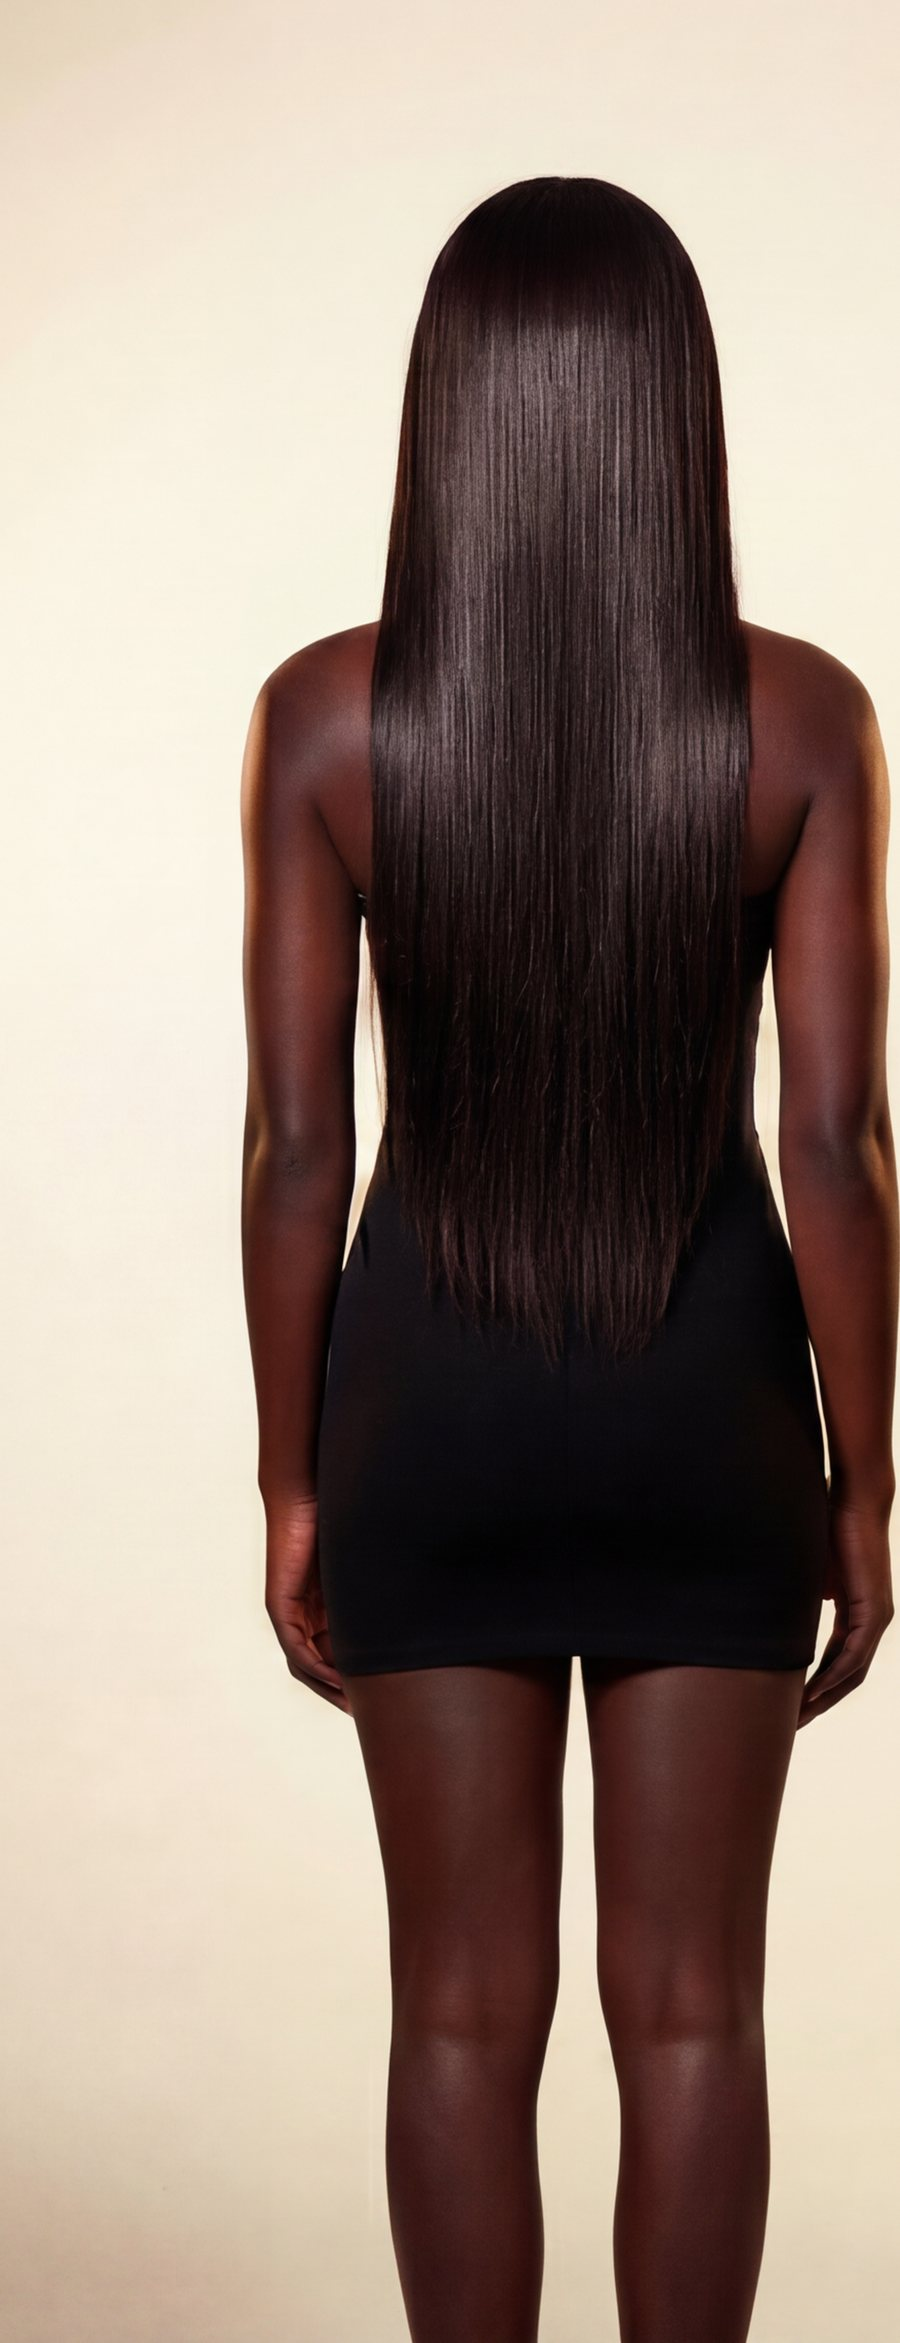
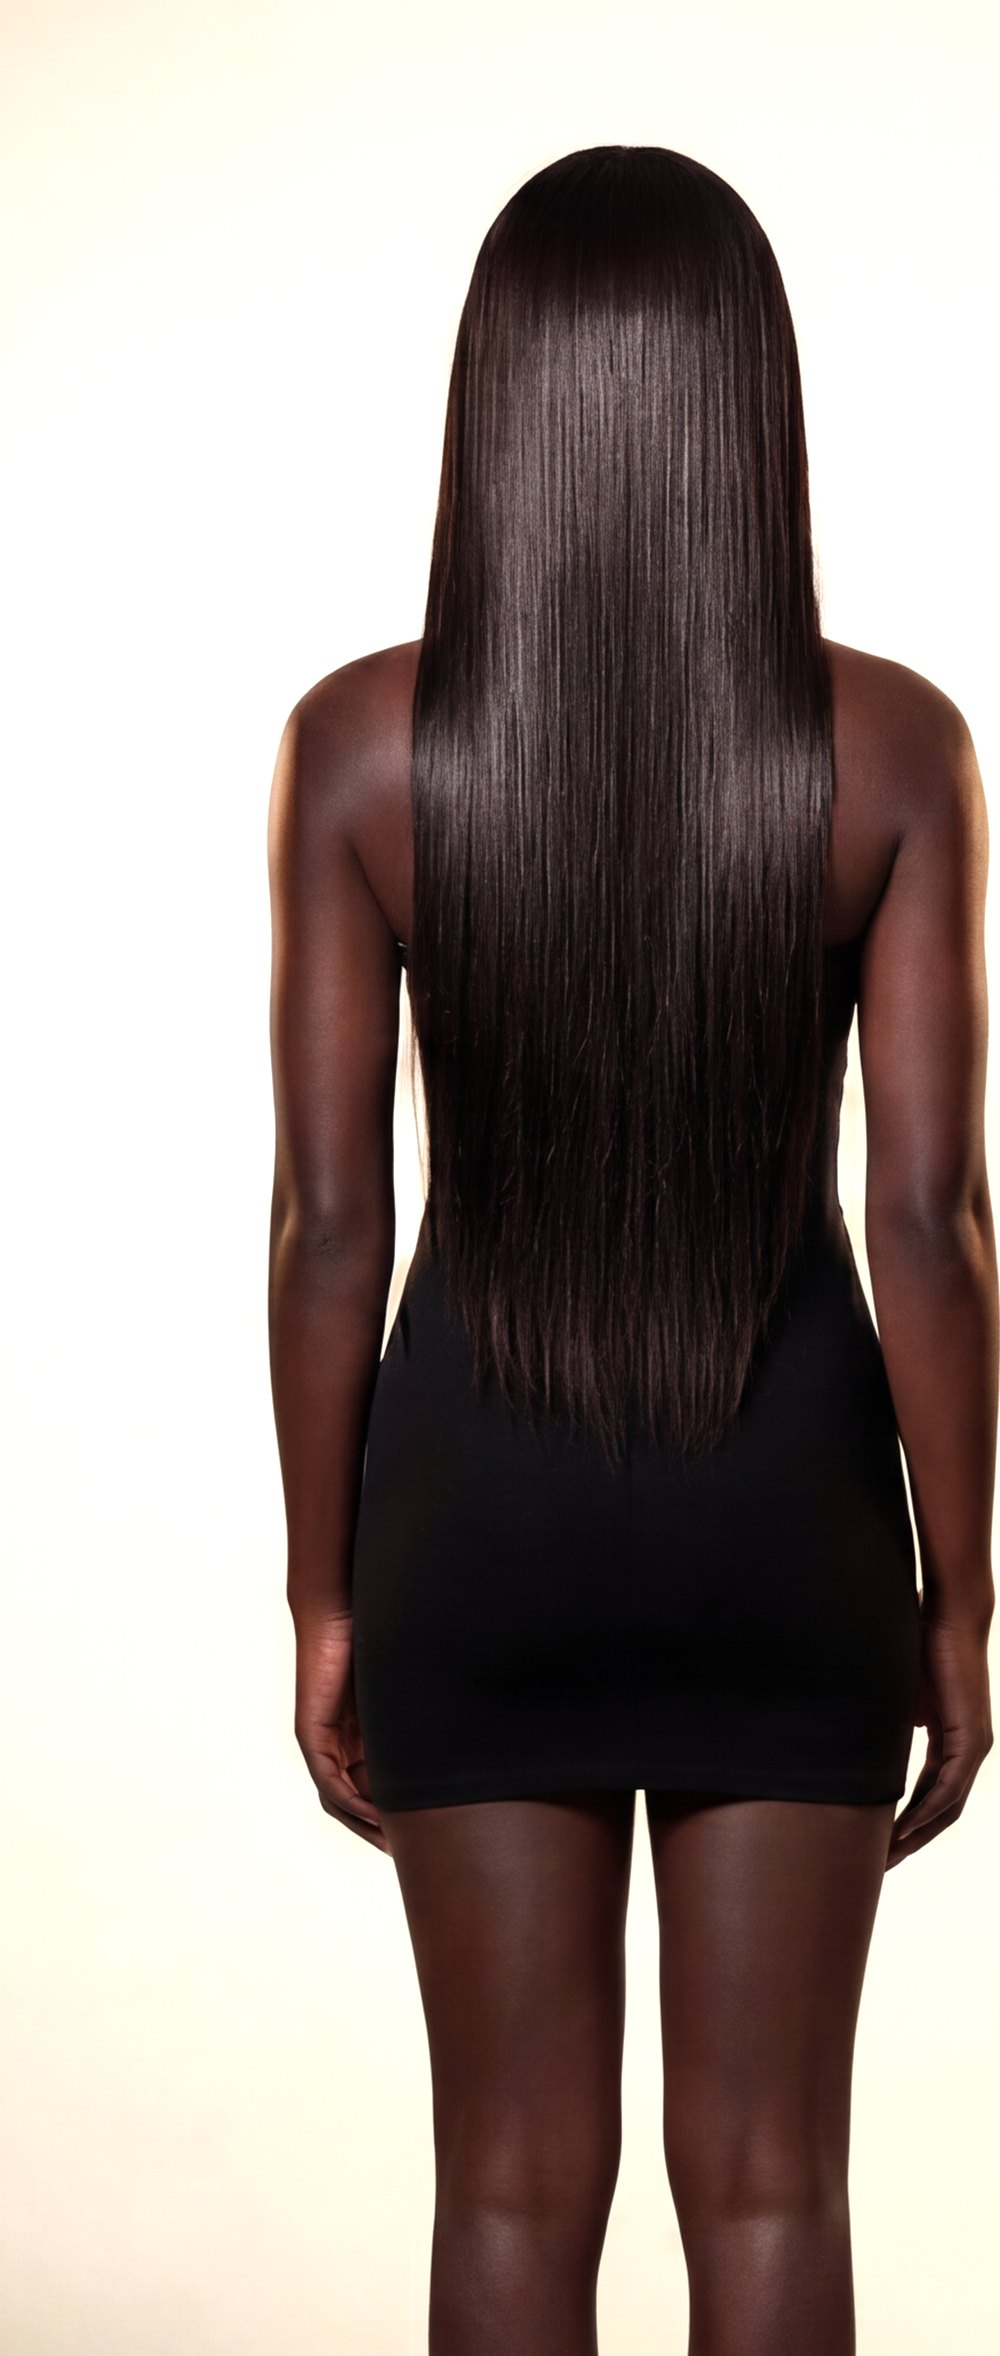
Length guide photo: regrade to page ivory, soft edge fade
Claude-Session: https://claude.ai/code/session_01MNgYNavbXaddTLtDGhST6P

diff --git a/src/components/LengthGuide.tsx b/src/components/LengthGuide.tsx
@@ -97,6 +97,14 @@ export default function LengthGuide() {
                 alt=""
                 className="h-[540px] sm:h-[660px] w-auto select-none"
                 draggable={false}
+                style={{
+                  maskImage:
+                    'linear-gradient(180deg, transparent 0%, black 6%, black 88%, transparent 100%), linear-gradient(90deg, transparent 0%, black 8%, black 92%, transparent 100%)',
+                  maskComposite: 'intersect',
+                  WebkitMaskImage:
+                    'linear-gradient(180deg, transparent 0%, black 6%, black 88%, transparent 100%), linear-gradient(90deg, transparent 0%, black 8%, black 92%, transparent 100%)',
+                  WebkitMaskComposite: 'source-in',
+                }}
               />
               <motion.div
                 className="absolute left-0 right-0 pointer-events-none"
